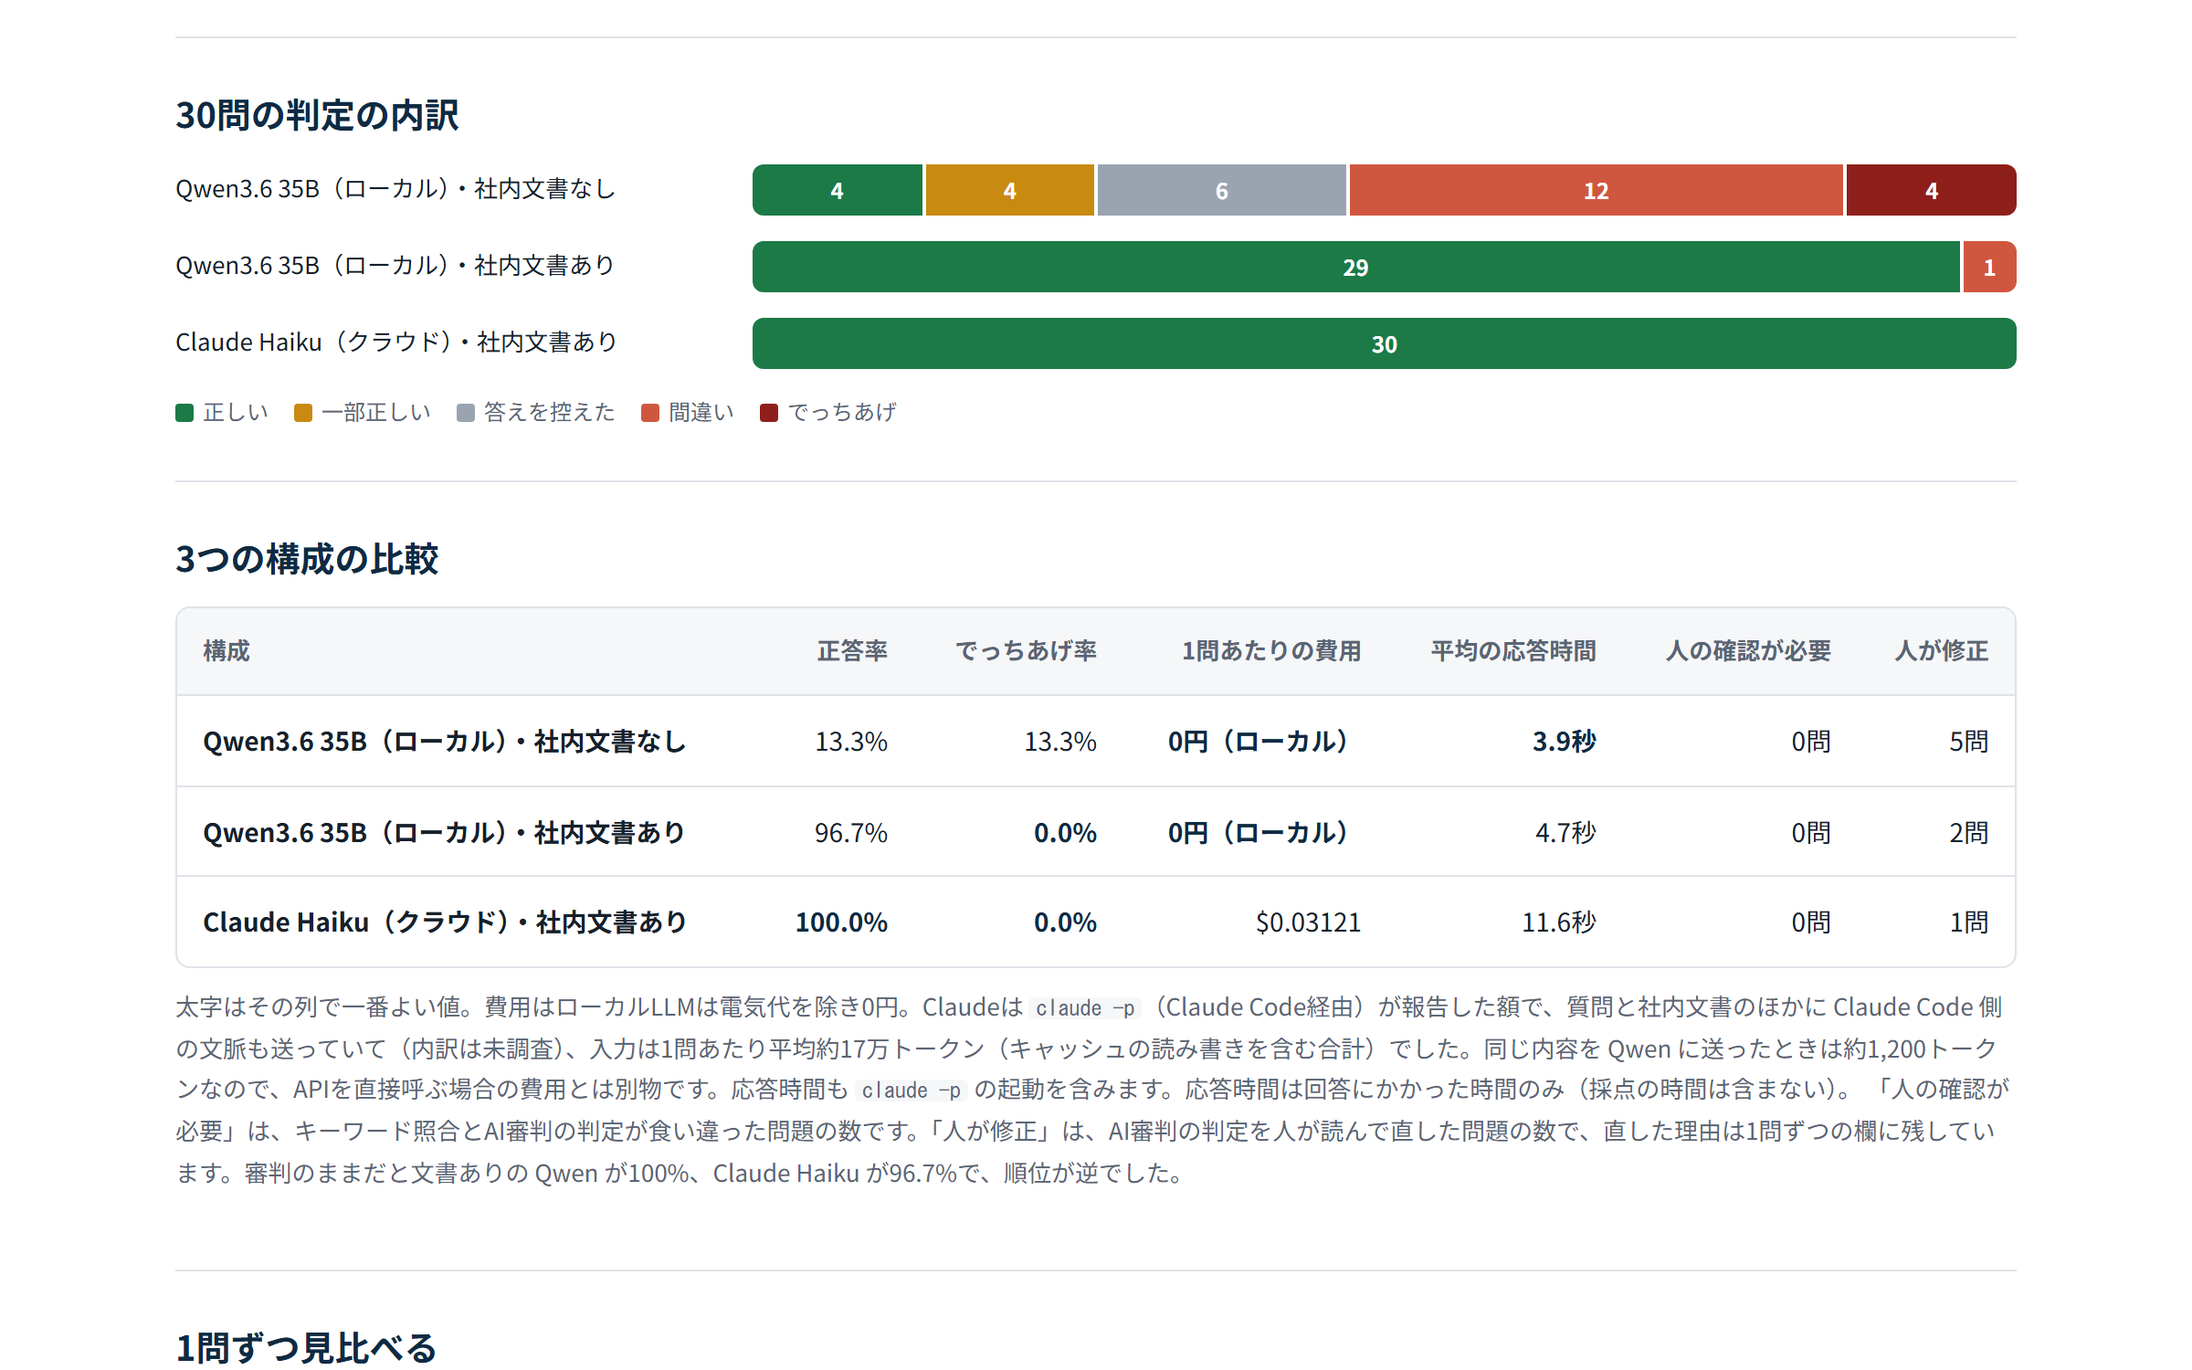
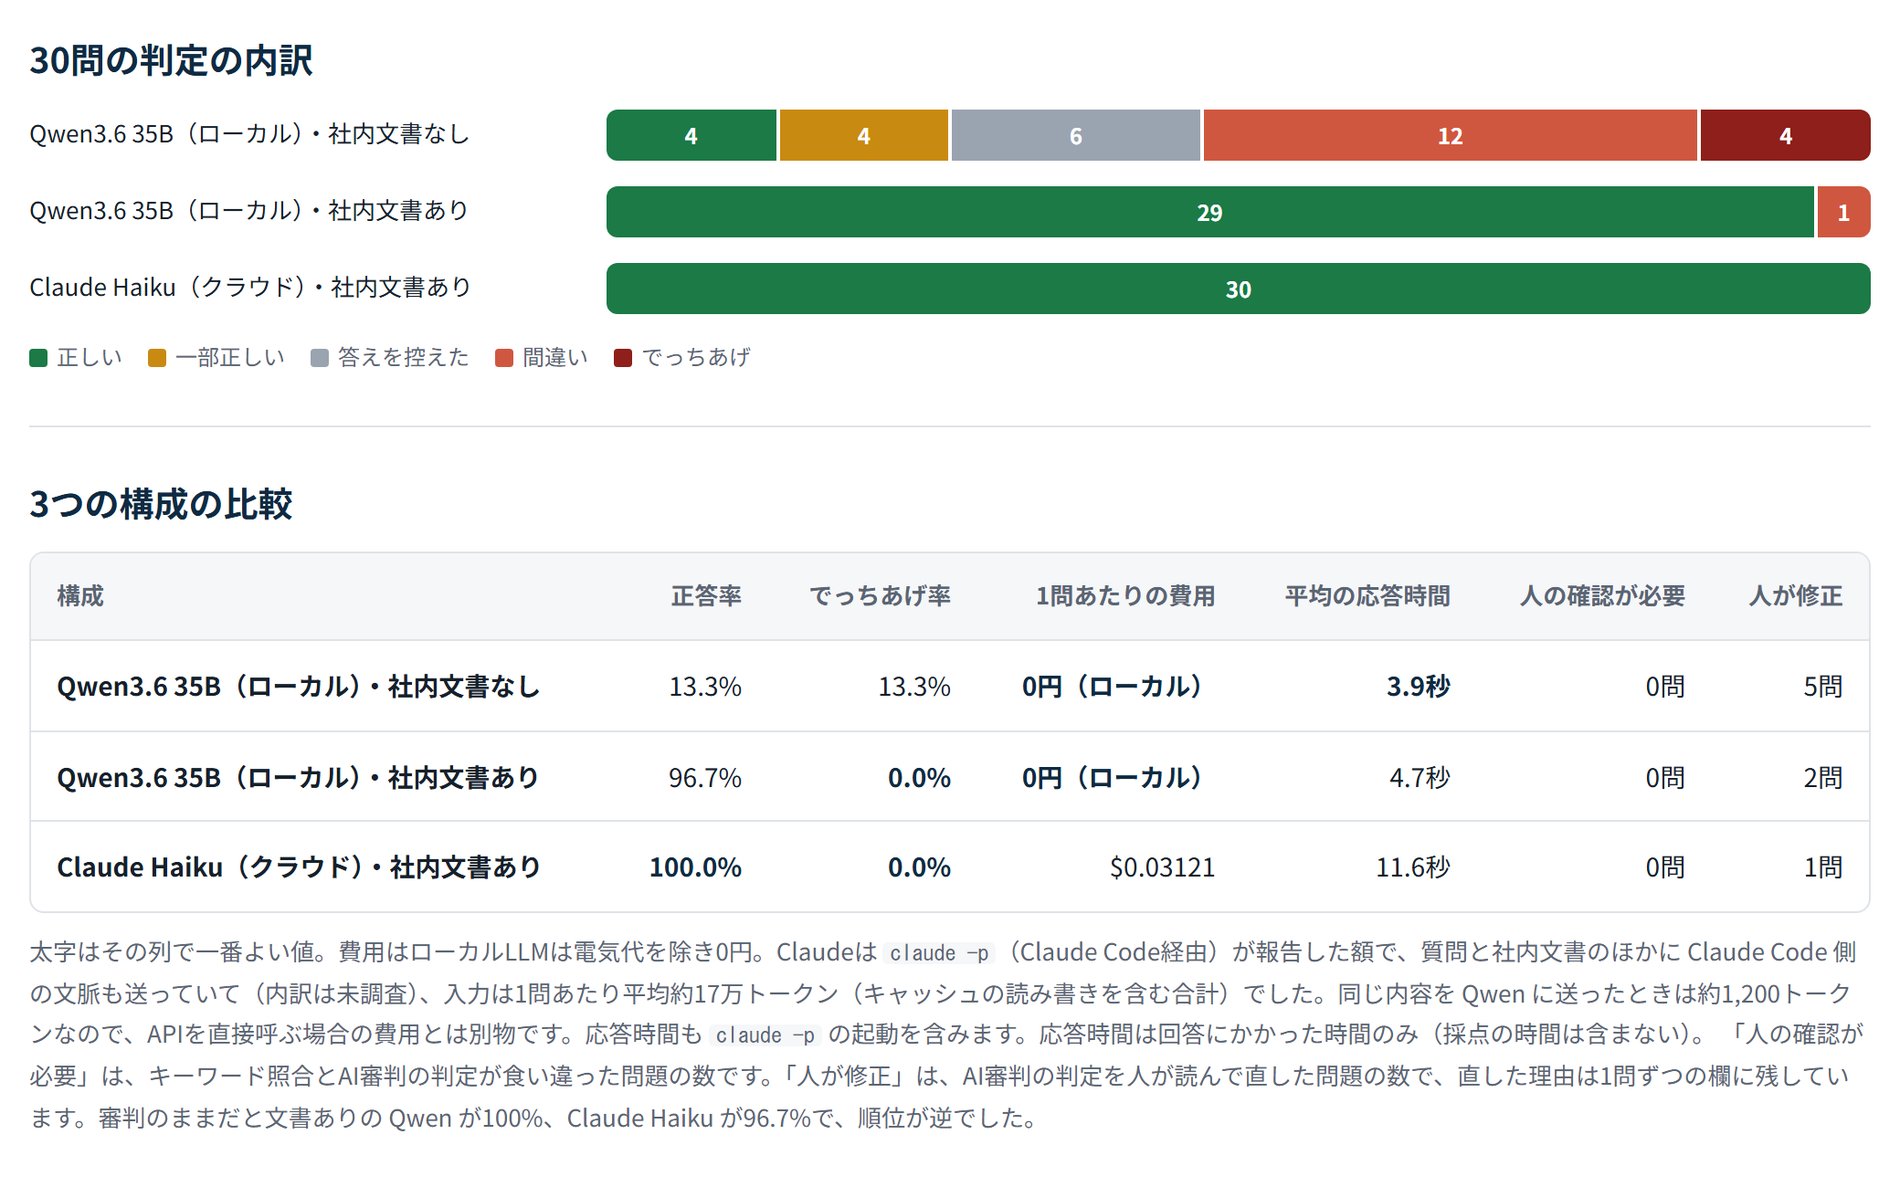
製品ページに仕組みの図を追加、スクリーンショットを本文幅で撮り直し元の解像度で配信

diff --git a/src/app/products/page.tsx b/src/app/products/page.tsx
@@ -4,10 +4,11 @@ import Image from "next/image";
 import { SiteHeader } from "@/components/site/SiteHeader";
 import { SiteFooter } from "@/components/site/SiteFooter";
 import { PageIntro } from "@/components/site/PageIntro";
+import { FlowDiagram } from "@/components/site/FlowDiagram";
 import { products } from "@/data/products";
 
 export const metadata: Metadata = {
-  title: "製品（ムカイクリエイトスタジオ）",
+  title: "製品",
   description:
     "AI機能の精度検証（ハカル）やAI駆動開発の点検（ヘルピア）など、自分で設計・実装して公開している製品。動くデモとコード、実際に測った数字を載せています。",
 };
@@ -18,50 +19,80 @@ export default function ProductsPage() {
       <SiteHeader />
       <main>
         <PageIntro label="ムカイクリエイトスタジオ" title="自分で作っている製品">
-          受託の仕事とは別に、設計から実装・計測まで自分で行い、公開している製品です。どれもデモはログインなしで見られ、コードはGitHubで読めます。数字は実際に動かして測った値だけを載せています。
+          受託の仕事とは別に、設計から実装・計測まで自分で行い、公開している製品です。どちらも「AIを数字で確かめる」ための道具で、デモはログインなしで見られ、コードはGitHubで読めます。数字は実際に動かして測った値だけを載せています。
         </PageIntro>
-        <div className="mx-auto max-w-[1080px] px-5 py-12 md:px-8">
-          <div className="grid gap-6">
+
+        {/* 製品の目次 */}
+        <nav aria-label="製品の目次" className="border-b border-line">
+          <ul className="mx-auto flex max-w-[1080px] flex-wrap gap-x-6 gap-y-2 px-5 py-4 text-[0.9rem] md:px-8">
             {products.map((p) => (
-              <article key={p.slug} className="rounded-[6px] border border-line bg-paper p-6 md:p-8">
-                <div className="flex flex-wrap items-baseline gap-x-3 gap-y-1">
-                  <h2 className="heading-ja text-[1.4rem] text-ink">{p.name}</h2>
-                  <span className="text-[0.8rem] tracking-[0.08em] text-ink-3">{p.reading}</span>
-                  <span className="rounded-[3px] bg-surface px-2 py-0.5 text-[0.75rem] text-ink-2">{p.status}</span>
-                </div>
-                <p className="mt-2 text-[1rem] font-semibold text-ink">{p.tagline}</p>
-                <p className="mt-3 text-[0.95rem] leading-[1.9] text-ink-2">{p.summary}</p>
-                <ul className="mt-4 list-disc space-y-1.5 pl-5 text-[0.9rem] text-ink-2">
-                  {p.points.map((t) => (
-                    <li key={t}>{t}</li>
-                  ))}
-                </ul>
-                <div className="mt-5 grid gap-3 md:grid-cols-2">
-                  {p.shots.map((s) => (
-                    <a key={s.src} href={p.demoUrl} className="block overflow-hidden rounded-[4px] border border-line hover:border-green">
-                      <Image src={s.src} alt={s.alt} width={1200} height={750} className="h-auto w-full" sizes="(min-width: 768px) 500px, 100vw" />
-                    </a>
-                  ))}
-                </div>
-                <p className="mt-4 text-[0.8rem] text-ink-3">使っている技術: {p.stack}</p>
-                <div className="mt-5 flex flex-wrap gap-3">
-                  <a
-                    href={p.demoUrl}
-                    className="inline-flex h-10 items-center rounded-[4px] bg-green px-5 text-[0.9rem] font-semibold text-white hover:bg-[#24493f]"
-                  >
-                    デモを見る
-                  </a>
-                  <a
-                    href={p.codeUrl}
-                    className="inline-flex h-10 items-center rounded-[4px] border border-line px-5 text-[0.9rem] text-ink hover:border-green hover:text-green"
-                  >
-                    コードを見る（GitHub）
-                  </a>
-                </div>
-              </article>
+              <li key={p.slug}>
+                <a href={`#${p.slug}`} className="text-ink-2 hover:text-green">
+                  <span className="font-bold text-ink">{p.name}</span>　{p.tagline}
+                </a>
+              </li>
             ))}
-          </div>
-          <div className="mt-10 border-t border-line pt-8 text-[0.95rem] text-ink-2">
+          </ul>
+        </nav>
+
+        {products.map((p, idx) => (
+          <section key={p.slug} id={p.slug} className={`scroll-mt-16 ${idx > 0 ? "border-t border-line" : ""}`}>
+            <div className="mx-auto max-w-[1080px] px-5 py-12 md:px-8 md:py-16">
+              <div className="flex flex-wrap items-baseline gap-x-3 gap-y-1">
+                <h2 className="heading-ja text-[1.6rem] text-ink">{p.name}</h2>
+                <span className="text-[0.8rem] tracking-[0.1em] text-ink-3">{p.reading}</span>
+                <span className="rounded-[3px] bg-green-soft px-2 py-0.5 text-[0.75rem] font-semibold text-green">{p.status}</span>
+              </div>
+              <p className="mt-3 text-[1.1rem] font-semibold leading-relaxed text-ink">{p.tagline}</p>
+              <p className="mt-3 max-w-[46em] text-[0.95rem] leading-[1.9] text-ink-2">{p.summary}</p>
+
+              <h3 className="mt-10 text-[1rem] font-bold text-ink">仕組み</h3>
+              <FlowDiagram steps={p.flow} caption={p.flowCaption} label={`${p.name}の仕組み`} />
+
+              <h3 className="mt-12 text-[1rem] font-bold text-ink">実際の画面</h3>
+              <div className="mt-5 grid gap-8">
+                {p.shots.map((s) => (
+                  <figure key={s.src}>
+                    <a
+                      href={p.demoUrl}
+                      className="block overflow-hidden rounded-[6px] border border-line bg-paper shadow-[0_1px_2px_rgb(0_0_0/0.04),0_8px_24px_-12px_rgb(31_36_33/0.18)] transition hover:border-green"
+                    >
+                      {/* 画面の文字を読めるよう、縮めずに元の解像度（横2080px）のまま配る */}
+                      <Image src={s.src} alt={s.alt} width={2080} height={1300} unoptimized className="h-auto w-full" />
+                    </a>
+                    <figcaption className="mt-2.5 text-[0.85rem] text-ink-2">{s.caption}</figcaption>
+                  </figure>
+                ))}
+              </div>
+
+              <h3 className="mt-12 text-[1rem] font-bold text-ink">分かったこと・約束</h3>
+              <ul className="mt-3 list-disc space-y-1.5 pl-5 text-[0.92rem] leading-relaxed text-ink-2">
+                {p.points.map((t) => (
+                  <li key={t}>{t}</li>
+                ))}
+              </ul>
+              <p className="mt-4 text-[0.8rem] text-ink-3">使っている技術: {p.stack}</p>
+
+              <div className="mt-6 flex flex-wrap gap-3">
+                <a
+                  href={p.demoUrl}
+                  className="inline-flex h-11 items-center rounded-[4px] bg-green px-6 text-[0.92rem] font-semibold text-white hover:bg-[#24493f]"
+                >
+                  デモを見る
+                </a>
+                <a
+                  href={p.codeUrl}
+                  className="inline-flex h-11 items-center rounded-[4px] border border-line px-6 text-[0.92rem] text-ink hover:border-green hover:text-green"
+                >
+                  コードを見る（GitHub）
+                </a>
+              </div>
+            </div>
+          </section>
+        ))}
+
+        <div className="border-t border-line bg-surface">
+          <div className="mx-auto max-w-[1080px] px-5 py-10 text-[0.95rem] text-ink-2 md:px-8">
             <p>
               作った人の経歴と技術スタックは
               <Link href="/engineer" className="text-green underline underline-offset-2">

diff --git a/src/data/products.ts b/src/data/products.ts
@@ -1,3 +1,5 @@
+import type { FlowStep } from "@/components/site/FlowDiagram";
+
 /** 自分で作って公開している製品（ムカイクリエイトスタジオ）。実測の数字だけを書く */
 export type Product = {
   slug: string;
@@ -11,7 +13,10 @@ export type Product = {
   codeUrl: string;
   status: string;
   /** public/products/ のスクリーンショット（scripts/shoot_products.py で撮る） */
-  shots: { src: string; alt: string }[];
+  shots: { src: string; alt: string; caption: string }[];
+  /** 仕組みの図の手順。実際の処理と一致させる */
+  flow: FlowStep[];
+  flowCaption: string;
 };
 
 export const products: Product[] = [
@@ -33,9 +38,25 @@ export const products: Product[] = [
     codeUrl: "https://github.com/mukai-work/hakaru",
     status: "公開中",
     shots: [
-      { src: "/products/hakaru-overview.png", alt: "ハカルの画面: 3つの構成ごとの30問の判定内訳（積み上げ棒）と比較表" },
-      { src: "/products/hakaru-diff.png", alt: "ハカルの画面: 構成を変えたときに判定が変わった問題を1問ずつ見比べる" },
+      {
+        src: "/products/hakaru-overview.png",
+        alt: "ハカルの画面: 3つの構成ごとの30問の判定内訳（積み上げ棒）と比較表",
+        caption: "構成ごとの判定の内訳。文書を渡さないと赤（間違い・でっちあげ）が増える",
+      },
+      {
+        src: "/products/hakaru-diff.png",
+        alt: "ハカルの画面: 構成を変えたときに判定が変わった問題を1問ずつ見比べる",
+        caption: "構成を変えて判定が変わった問題を、回答と採点の理由つきで1問ずつ見比べる",
+      },
     ],
+    flow: [
+      { title: "質問集を用意する", body: "質問・期待する答え・キーワードを1行1問で書く。答えの無い質問も混ぜる", chips: ["JSONL"] },
+      { title: "構成を変えて答えさせる", body: "モデル・プロンプト・文書の渡し方を変えて、同じ質問に答えさせる", chips: ["ローカルLLM", "Claude", "文書あり／なし"] },
+      { title: "二重に採点する", body: "キーワード照合とAI審判で採点し、食い違った問題に印を付ける", key: true },
+      { title: "人が確かめる", body: "AI審判の誤りを人が直し、元の判定と理由を記録に残す", key: true },
+      { title: "比べて見る", body: "正答率・でっちあげ率・費用・応答時間と、悪くなった問題の一覧", chips: ["改修のたびに再実行"] },
+    ],
+    flowCaption: "画面からAIは呼ばない。測った結果のJSONを表示するだけなので、データを外に出さない構成（ローカルLLM）でも同じ流れで測れる。",
   },
   {
     slug: "helpia",
@@ -55,8 +76,24 @@ export const products: Product[] = [
     codeUrl: "https://github.com/mukai-work/helpia",
     status: "公開中",
     shots: [
-      { src: "/products/helpia-overview.png", alt: "ヘルピアの画面: AIが関わったコミットの割合と点検したリポジトリの切り替え" },
-      { src: "/products/helpia-bars.png", alt: "ヘルピアの画面: AIのコミットと人のコミットのテスト同伴率・手戻り率・変更行数を並べた棒グラフ" },
+      {
+        src: "/products/helpia-overview.png",
+        alt: "ヘルピアの画面: AIが関わったコミットの割合と点検したリポジトリの切り替え",
+        caption: "AIが関わったコミットの割合。印を付けない運用の分は数えられないので下限値として出す",
+      },
+      {
+        src: "/products/helpia-bars.png",
+        alt: "ヘルピアの画面: AIのコミットと人のコミットのテスト同伴率・手戻り率・変更行数を並べた棒グラフ",
+        caption: "AIのコミットと人のコミットを、テスト同伴率・手戻り率・変更の大きさで並べる",
+      },
     ],
+    flow: [
+      { title: "Gitの履歴を読む", body: "手元のリポジトリの履歴を読む。コードは外に送らない", chips: ["git log"] },
+      { title: "AIの印で分ける", body: "Co-Authored-By などの印で、AIが関わったコミットと人のコミットに分ける", key: true, chips: ["Claude", "Copilot", "Cursor", "Codex"] },
+      { title: "3つの指標を数える", body: "テストも一緒に変えたか・7日以内の手戻り・1回の変更の大きさ", key: true },
+      { title: "任せられる状態か点検", body: "AIへの指示書・テスト・CI・秘密情報など8項目", chips: ["点数は付けない"] },
+      { title: "改善案を出す", body: "足すとよいもの（AGENTS.md・CI・テストなど）を項目ごとに示す" },
+    ],
+    flowCaption: "判定にAIは使わず、決まった規則で数える。誰が回しても同じ数字になる。",
   },
 ];

diff --git a/src/components/site/FlowDiagram.tsx b/src/components/site/FlowDiagram.tsx
@@ -1,0 +1,71 @@
+/**
+ * 仕組みの図。手順を左から右へ（スマホでは上から下へ）並べ、矢印でつなぐ。
+ * 画像ではなく HTML で組むので、どの画面幅でも文字がくっきり出る。
+ * 色はサイトの約束どおり：線と文字は墨色、強調したい手順だけ深緑、金は使わない。
+ */
+export type FlowStep = {
+  /** 手順の名前（短く） */
+  title: string;
+  /** 1〜2行の説明 */
+  body: string;
+  /** その製品ならではの手順。深緑で強調する */
+  key?: boolean;
+  /** 手順の中に並べる小さな札（例: 構成A・B・C） */
+  chips?: string[];
+};
+
+function Arrow() {
+  return (
+    <span className="flex items-center justify-center py-0.5 text-ink-3 md:w-6 md:py-0" aria-hidden="true">
+      <svg viewBox="0 0 16 16" className="h-4 w-4 rotate-90 md:rotate-0">
+        <path
+          d="M3 8h9M8.5 4.5 12 8l-3.5 3.5"
+          fill="none"
+          stroke="currentColor"
+          strokeWidth="1.6"
+          strokeLinecap="round"
+          strokeLinejoin="round"
+        />
+      </svg>
+    </span>
+  );
+}
+
+export function FlowDiagram({ steps, caption, label }: { steps: FlowStep[]; caption?: string; label: string }) {
+  return (
+    <figure className="mt-6" aria-label={label}>
+      <ol className="flex flex-col md:flex-row md:items-stretch">
+        {steps.map((s, i) => (
+          <li key={s.title} className="flex flex-col md:flex-1 md:flex-row md:items-stretch">
+            <div className={`flex-1 rounded-[6px] border p-4 ${s.key ? "border-green bg-green-soft" : "border-line bg-paper"}`}>
+              <p className="flex items-center gap-2 text-[0.75rem] text-ink-3">
+                <span
+                  className={`inline-flex h-5 w-5 items-center justify-center rounded-full text-[0.7rem] font-bold ${
+                    s.key ? "bg-green text-white" : "bg-surface text-ink-2"
+                  }`}
+                  aria-hidden="true"
+                >
+                  {i + 1}
+                </span>
+                {s.key && <span className="font-semibold text-green">この製品の要</span>}
+              </p>
+              <p className="mt-2 text-[0.95rem] font-bold leading-snug text-ink">{s.title}</p>
+              <p className="mt-1.5 text-[0.8rem] leading-relaxed text-ink-2">{s.body}</p>
+              {s.chips && (
+                <ul className="mt-2.5 flex flex-wrap gap-1.5">
+                  {s.chips.map((c) => (
+                    <li key={c} className="rounded-[3px] border border-line bg-paper px-1.5 py-0.5 text-[0.7rem] text-ink-2">
+                      {c}
+                    </li>
+                  ))}
+                </ul>
+              )}
+            </div>
+            {i < steps.length - 1 && <Arrow />}
+          </li>
+        ))}
+      </ol>
+      {caption && <figcaption className="mt-3 text-[0.8rem] text-ink-3">{caption}</figcaption>}
+    </figure>
+  );
+}

diff --git a/src/app/page.tsx b/src/app/page.tsx
@@ -309,7 +309,7 @@ export default function Home() {
             {products.map((p) => (
               <a key={p.slug} href={p.demoUrl} className="group block rounded-[6px] border border-line bg-paper hover:border-green">
                 <div className="overflow-hidden rounded-t-[6px] border-b border-line">
-                  <Image src={p.shots[0].src} alt={p.shots[0].alt} width={1200} height={750} className="h-auto w-full" sizes="(min-width: 768px) 520px, 100vw" />
+                  <Image src={p.shots[0].src} alt={p.shots[0].alt} width={2080} height={1300} unoptimized className="h-auto w-full" />
                 </div>
                 <div className="p-5">
                   <p className="text-[0.75rem] tracking-[0.08em] text-ink-3">{p.reading}</p>

diff --git a/scripts/shoot_products.py b/scripts/shoot_products.py
@@ -30,12 +30,15 @@ with sync_playwright() as p:
             page.click(click)
         el = page.locator(anchor).first
         el.scroll_into_view_if_needed()
-        # 見せたい要素の少し上から、画面1枚ぶんを撮る
+        # 見せたい要素の少し上から、本文の幅（main.wrap）だけを 16:10 で切り取る。
+        # 左右の余白を入れないので、画面の中の文字が大きく見える
         box = el.bounding_box()
-        top = max(0, box["y"] + page.evaluate("window.scrollY") - 90)
+        top = max(0, box["y"] + page.evaluate("window.scrollY") - 60)
         page.evaluate(f"window.scrollTo(0, {top})")
         page.wait_for_timeout(300)
+        wrap = page.locator("main.wrap").bounding_box()
+        width = wrap["width"]
         dest = OUT / f"{name}.png"
-        page.screenshot(path=str(dest))
+        page.screenshot(path=str(dest), clip={"x": wrap["x"], "y": 0, "width": width, "height": width * 10 / 16})
         print("保存:", dest)
     browser.close()
